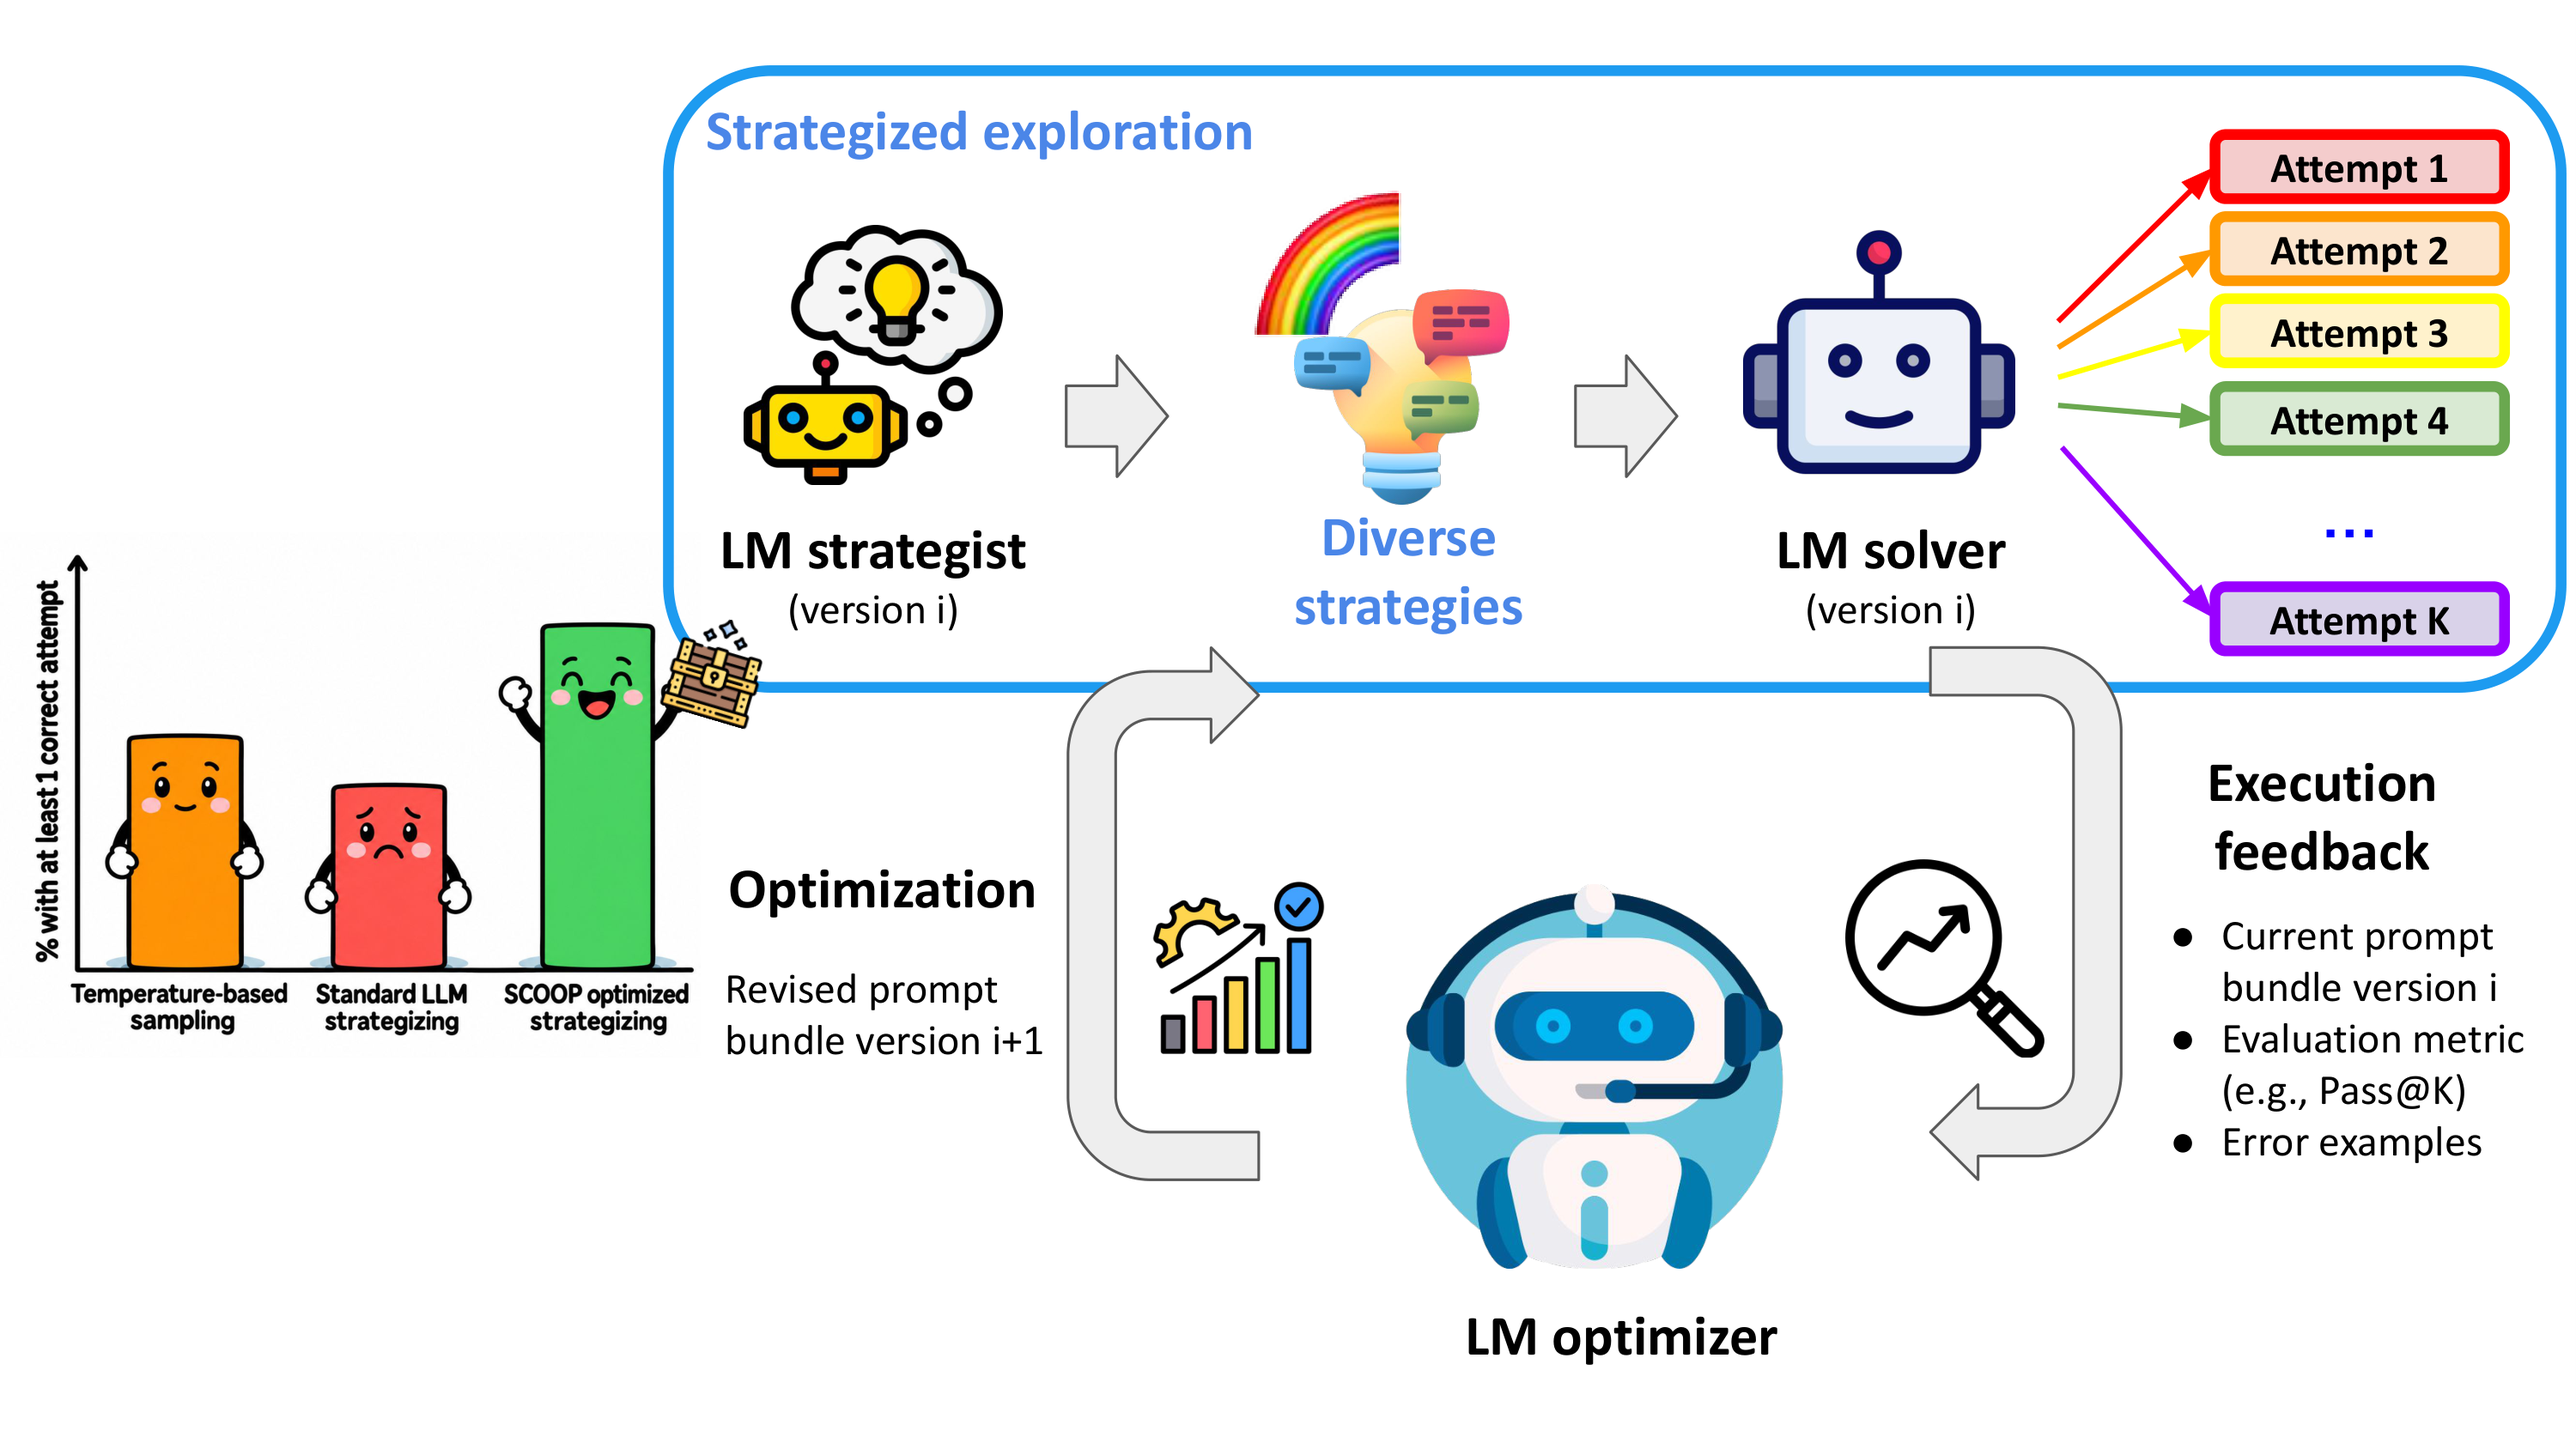
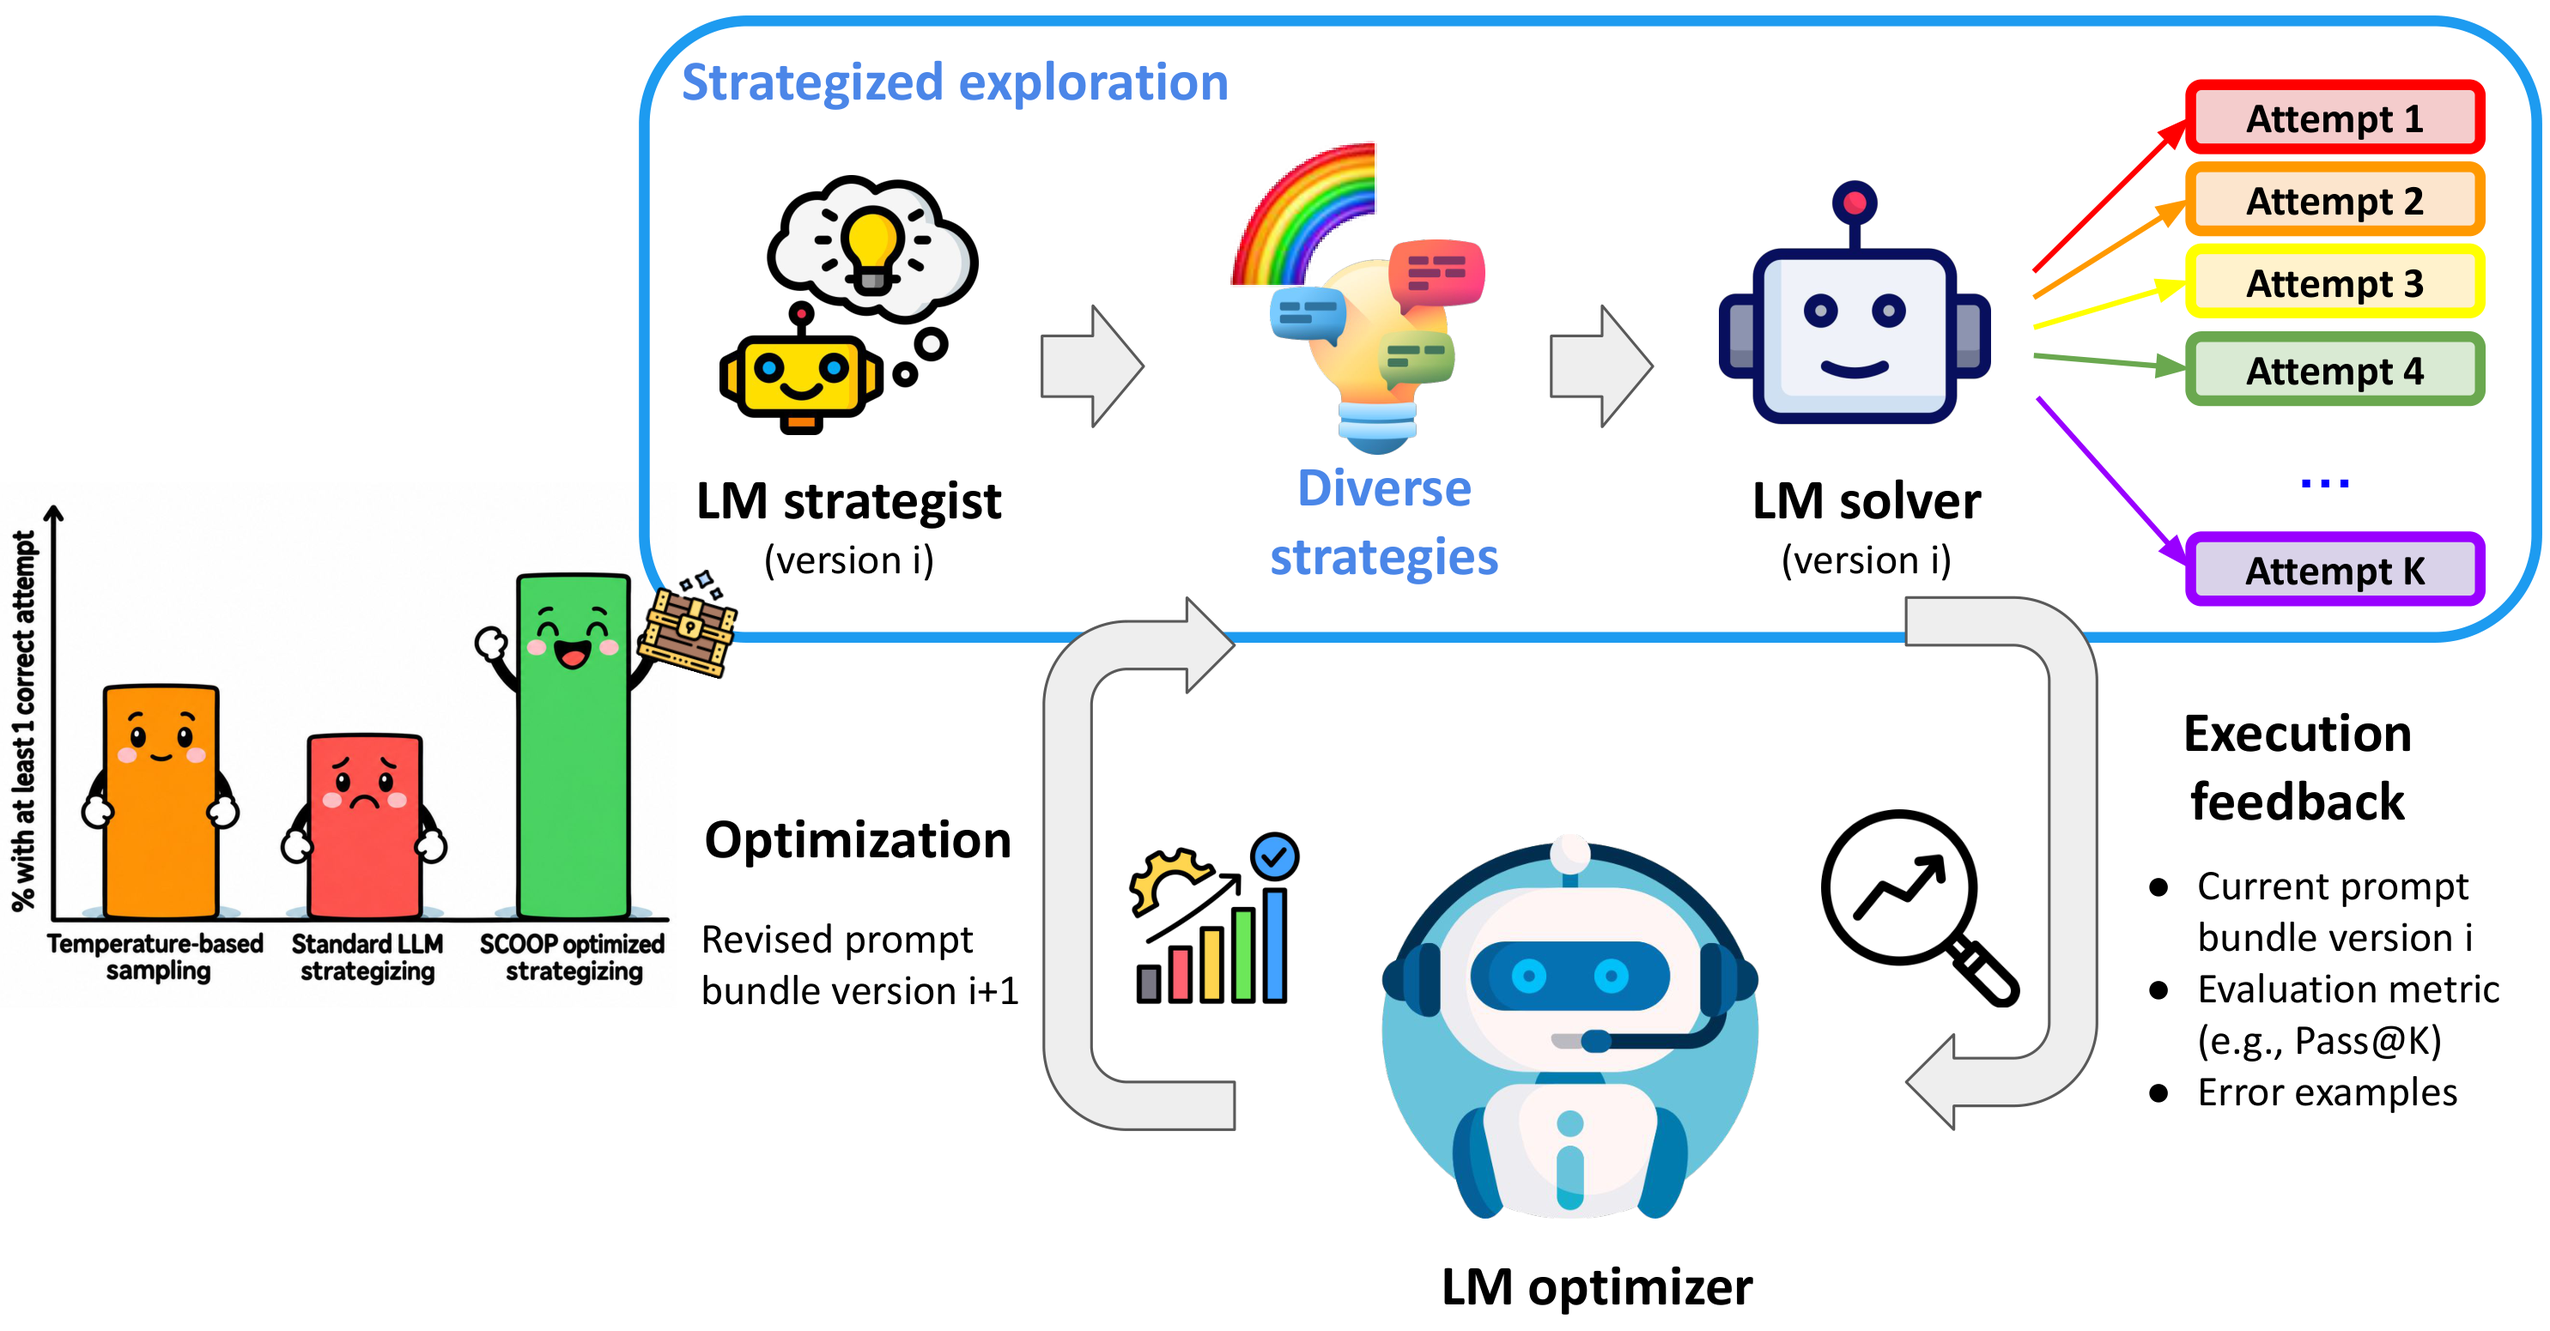
Update fig1 width

Changed region(s): [[0.0, 0.0, 1.0, 0.9903], [0.8364, 0.5261, 0.9912, 0.8356], [0.4027, 0.2476, 0.4646, 0.3095]]

diff --git a/scoop/README.md b/scoop/README.md
@@ -16,7 +16,7 @@ permalink: /scoop/
 
 
 
-<p align="center"><img width="85%" src="scoop_fig1.png" /></p>
+<p align="center"><img width="98%" src="scoop_fig1.png" /></p>
 
 *Figure: **Overview of SCOOP (Strategy Coordination Optimization).** LLMs may not be natural explorers out of the box, but with SCOOP, they can learn to explore—navigating complex output spaces across the frontier of challenging tasks. SCOOP unlocks effective exploration via a simple inference-time loop: (1) an **LM Strategist** proposes K diverse strategies for a task; (2) an **LM Solver** executes the K generations in parallel; and (3) an **LM Optimizer** meta-optimizes the strategized exploration prompts based on execution feedback to systematically refine how the exploration is done. Over successive iterations, SCOOP discovers generalizable principles for strategized exploration that drive performance gains over both unstrategized sampling and standard LLM strategizing.*
 
